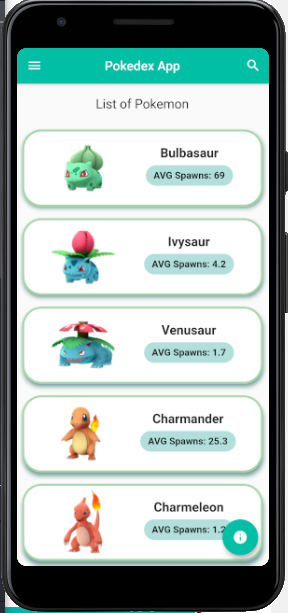
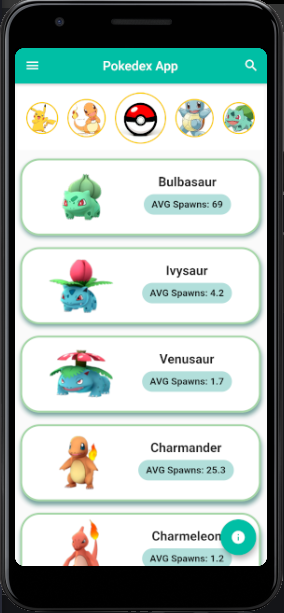
change app view

diff --git a/lib/main.dart b/lib/main.dart
@@ -86,46 +86,46 @@ class _HomePageState extends State<HomePage> {
                         mainAxisAlignment: MainAxisAlignment.spaceEvenly,
                         children: [
                           CircleAvatar(
-                            radius: 28,
+                            radius: 25,
                             backgroundColor: Color(0xffFDCF09),
                             child: CircleAvatar(
-                              radius: 26,
+                              radius: 23,
                               backgroundImage: NetworkImage(
                                   'https://secure.img1-fg.wfcdn.com/im/02238154/compr-r85/8470/84707680/pokemon-pikachu-wall-decal.jpg'),
                             ),
                           ),
                           CircleAvatar(
-                            radius: 33,
+                            radius: 30,
                             backgroundColor: Color(0xffFDCF09),
                             child: CircleAvatar(
-                              radius: 31,
+                              radius: 28,
                               backgroundImage: NetworkImage(
                                   'https://i.pinimg.com/originals/e7/0e/d0/e70ed0b54f9230c56c2e3bd2958d68a4.jpg'),
                             ),
                           ),
                           CircleAvatar(
-                            radius: 42,
+                            radius: 40,
                             backgroundColor: Color(0xffFDCF09),
                             child: CircleAvatar(
-                              radius: 40,
+                              radius: 38,
                               backgroundImage: NetworkImage(
                                   'http://cdn.shopify.com/s/files/1/1756/9559/products/pokeball_coaster_photo_1024x1024.jpg?v=1557064798'),
                             ),
                           ),
                           CircleAvatar(
-                            radius: 33,
+                            radius: 30,
                             backgroundColor: Color(0xffFDCF09),
                             child: CircleAvatar(
-                              radius: 31,
+                              radius: 28,
                               backgroundImage: NetworkImage(
                                   'https://static.wikia.nocookie.net/totalpokemonisland/images/f/f3/Squirtle.jpg/revision/latest/scale-to-width-down/340?cb=20120805051751'),
                             ),
                           ),
                           CircleAvatar(
-                            radius: 28,
+                            radius: 25,
                             backgroundColor: Color(0xffFDCF09),
                             child: CircleAvatar(
-                              radius: 26,
+                              radius: 23,
                               backgroundImage: NetworkImage(
                                   'https://i.pinimg.com/originals/08/36/49/0836496331b2369df9f27a545d5f250a.jpg'),
                             ),
